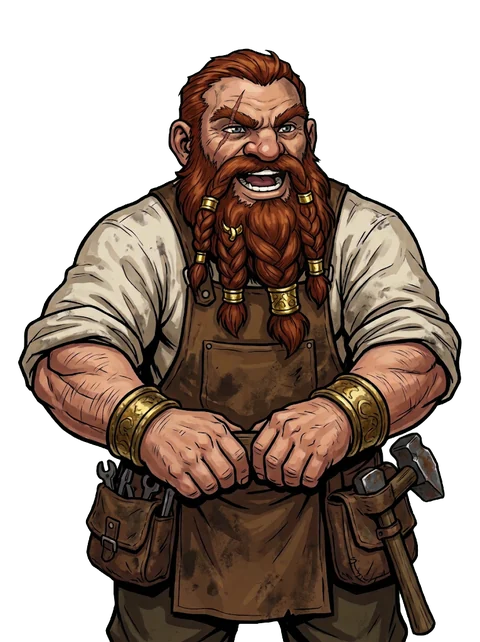
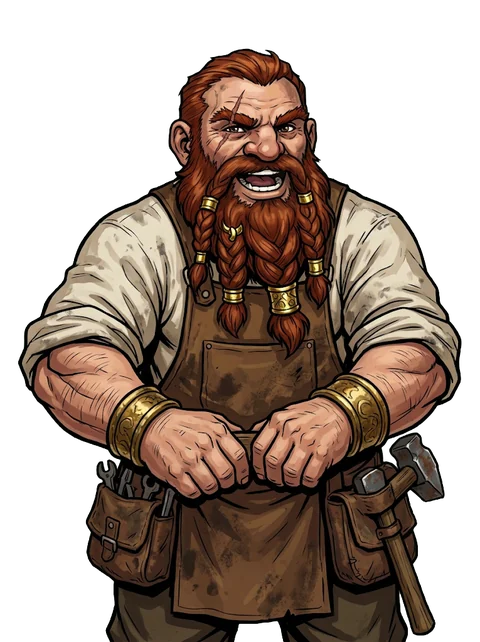
ドルガンの口パクを口だけ動く絵にし、速さを半分に。あいさつの抽選を重み付きに（ふだんのあいさつが必ず一番多く出る）
Claude-Session: https://claude.ai/code/session_01SScYKMx2sjB6BuSXZmESck

diff --git a/js/shop.js b/js/shop.js
@@ -376,6 +376,7 @@ const Shop = {
    絵は ui/keeper/<店員のid>-<表情>.webp（idle まばたき前の顔 / blink / talk1 / talk2 / happy / trouble / offer） */
 const KEEPER_FRAMES = ["idle", "blink", "talk1", "talk2", "happy", "trouble", "offer"];
 const KEEPER_ART = ["dorgan"];   // 絵がそろっている店員
+const KEEPER_RICH = 5000;        // これ以上魔石を持っていると「魔石が多い」のあいさつが出ることがある
 const Keeper = {
   q: [], text: "", extra: "", shown: "", mood: null, moodUntil: 0, talking: false, timers: [], cache: {},
   cur() {
@@ -397,7 +398,16 @@ const Keeper = {
     const k = this.cur(); if (!k) return;
     let seen = false; try { seen = localStorage.getItem("kyokai-shop-seen") === "1"; localStorage.setItem("kyokai-shop-seen", "1"); } catch (e) {}
     const h = new Date().getHours(), st = Account.stones || 0;
-    const scene = !seen ? "first" : st >= 5000 && Math.random() < 0.4 ? "rich" : h >= 5 && h < 11 && Math.random() < 0.5 ? "morning" : (h >= 22 || h < 5) && Math.random() < 0.5 ? "night" : "enter";
+    // はじめての来店だけは必ず自己紹介。ほかは「ふだんのあいさつ」を重さ2、当てはまる特別なあいさつ（朝・夜・魔石が多い）を重さ1ずつで抽選する
+    //  例：魔石が多いだけ → ふだん2/3・魔石1/3。朝で魔石も多い → ふだん1/2・朝1/4・魔石1/4（どの人もふだんのあいさつが一番多く出る）
+    let scene = "first";
+    if (seen) {
+      const bag = ["enter", "enter"];
+      if (st >= KEEPER_RICH) bag.push("rich");
+      if (h >= 5 && h < 11) bag.push("morning");
+      if (h >= 22 || h < 5) bag.push("night");
+      scene = bag[Math.floor(Math.random() * bag.length)];
+    }
     this.q = [{ scene }];
     const f = Shop.feature();
     if (f && Shop.offPct()) this.q.push({ scene: "feature", mood: "offer", vars: { card: f.name, off: Shop.offPct() }, extra: `<button type="button" class="kp-go" data-act="shopFeature" data-id="${esc(f.id)}">《${esc(f.name)}》を見る ›</button>` });
@@ -455,7 +465,7 @@ const Keeper = {
       if (this.mood && now > this.moodUntil) this.mood = null;
       let f = "idle";
       if (this.mood) f = this.mood;
-      else if (this.talking) f = ["talk1", "talk2", "talk1", "idle"][tick % 4];
+      else if (this.talking) f = ["talk1", "talk2", "talk1", "idle"][Math.floor(tick / 2) % 4];   // 口だけ、約0.18秒ごとに動かす
       else {
         if (now > blinkAt) { blinkTo = now + 130; blinkAt = now + 2200 + Math.random() * 3800; }
         if (now < blinkTo) f = "blink";

diff --git a/sw.js b/sw.js
@@ -1,7 +1,7 @@
 /* オフラインでも遊べるようにするためのサービスワーカー。
    通信できるときは常に最新を取りに行き（ネットワーク優先）、
    通信できないときだけ保存しておいた内容を使う。 */
-const CACHE = "kyokai-v228";
+const CACHE = "kyokai-v229";
 const SHELL = [
   "./", "index.html", "game-data.json",
   "css/base.css", "css/game.css", "js/shared.js", "js/net.js", "js/sound.js", "js/bgm.js", "js/game.js", "js/motion.js", "js/finale.js", "js/vfx.js", "js/mull.js", "js/cinema.js", "js/account.js", "js/pack.js", "js/shop.js", "js/quest.js", "js/tutorial.js", "js/showcase.js", "js/deck.js", "js/feedback.js", "js/serial.js", "js/inbox.js", "js/splash.js", "js/online.js", "js/simlab.js",
